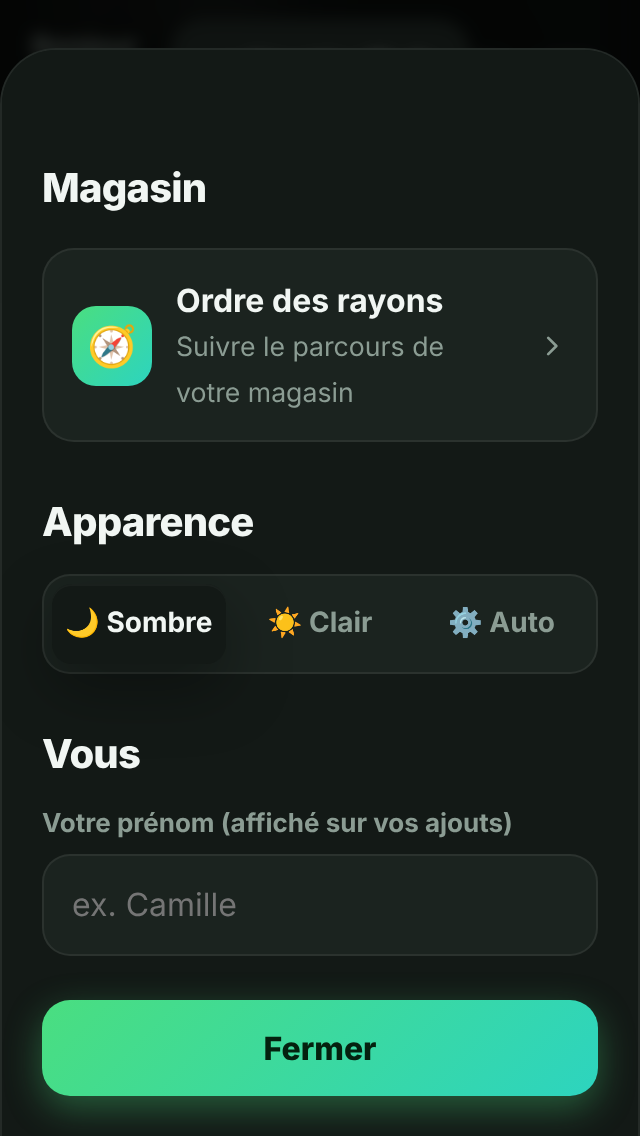
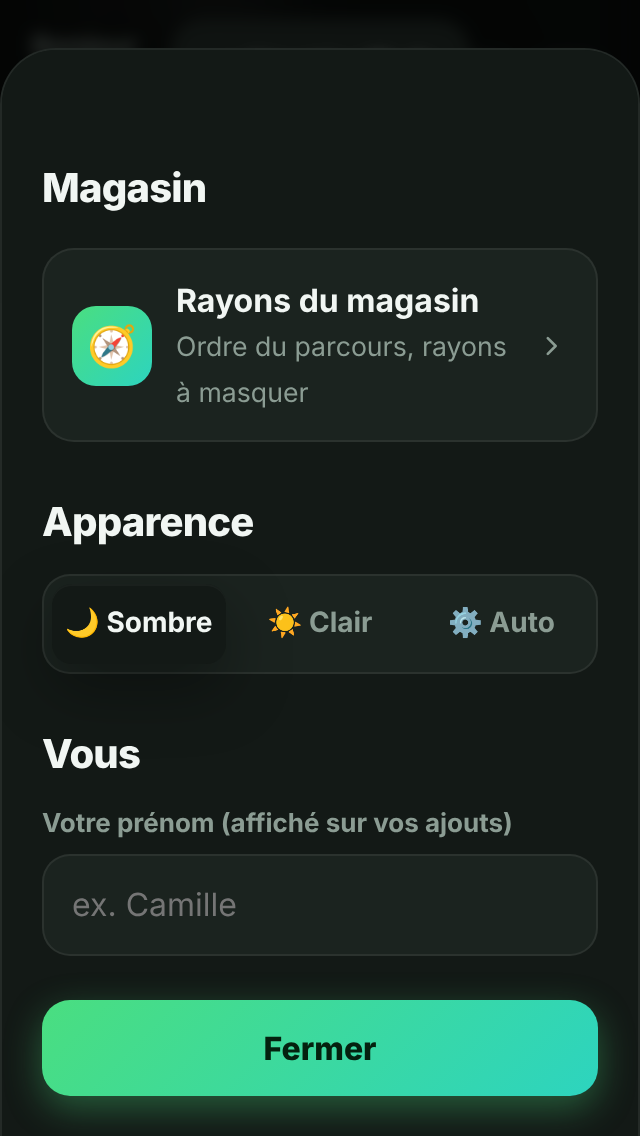
Annuler la dernière action (2.8)
- Pile des 20 dernières actions faites sur ce téléphone : cocher ou
  décocher (dates d'achat restaurées), ajouter (seul ou en groupe, compteur
  d'historique corrigé), supprimer, « Tout retirer », modifier, retirer
  depuis le catalogue
- Bouton « ↶ Annuler · … » au-dessus de la saisie après chaque action,
  annulations enchaînables ; bouton ↶ sur la carte de progression
- Les ajouts reçus de Siri ne sont pas annulables depuis ce téléphone

Claude-Session: https://claude.ai/code/session_01VrcHt51tiMJJhfcBrPFuUk

Changed region(s): [[0.2812, 0.2465, 0.7812, 0.3697]]

diff --git a/public/js/app.js b/public/js/app.js
@@ -130,6 +130,12 @@ function recordPurchase(item) {
   const kept = dates.sort((a, b) => a - b).slice(-12);
   historyMap = { ...historyMap, [key]: { ...prev, name: item.name, category: item.category, dates: kept } };
   store.recordPurchase(key, { name: item.name, category: item.category }, kept);
+  // Pour l'annulation : remet les dates d'avant.
+  const before = prev.dates || [];
+  return () => {
+    historyMap = { ...historyMap, [key]: { ...(historyMap[key] || prev), dates: before } };
+    store.recordPurchase(key, { name: item.name, category: item.category }, before);
+  };
 }
 
 // Écart habituel entre deux achats : médiane des écarts (insensible à un oubli ponctuel).
@@ -232,7 +238,7 @@ function setupForgot() {
     setTimeout(() => { renderForgotSheet(); renderForgotButton(); }, 350);
   });
   $('#forgot-all').addEventListener('click', () => {
-    forgottenItems().forEach(addEntry);
+    pushGroupUndo(forgottenItems().map((f) => addItem({ name: f.entry.name, qty: '', category: f.entry.category }, { silent: true, undo: false })));
     $('#forgot-list').querySelectorAll('li').forEach((li) => li.classList.add('added'));
     setTimeout(() => { sheet.close(); }, 400);
   });
@@ -298,27 +304,105 @@ function renderChips() {
   });
 }
 
+/* ---------------------------------------------------------------- Annuler */
+
+// Pile des dernières actions faites sur ce téléphone (20 maximum), chacune avec
+// sa fonction d'annulation. Le bouton « ↶ Annuler » apparaît après chaque action.
+const undoStack = [];
+let undoPillTimer;
+const itemExists = (id) => items.some((i) => i.id === id);
+
+function pushUndo(label, revert) {
+  if (typeof revert !== 'function') return;
+  undoStack.push({ label, revert });
+  if (undoStack.length > 20) undoStack.shift();
+  showUndoPill();
+}
+
+function showUndoPill() {
+  const pill = $('#undo-pill');
+  renderUndoButton();
+  if (!pill) return;
+  const last = undoStack[undoStack.length - 1];
+  if (!last) { pill.hidden = true; return; }
+  $('#undo-label').textContent = last.label;
+  pill.hidden = false;
+  pill.classList.remove('pop');
+  void pill.offsetWidth;
+  pill.classList.add('pop');
+  clearTimeout(undoPillTimer);
+  undoPillTimer = setTimeout(() => { pill.hidden = true; }, 6000);
+}
+
+function undoLast() {
+  const action = undoStack.pop();
+  if (!action) return;
+  try { action.revert(); } catch (err) { console.error(err); }
+  navigator.vibrate?.(15);
+  if (undoStack.length) {
+    showUndoPill(); // permet d'enchaîner les annulations
+  } else {
+    $('#undo-pill').hidden = true;
+    renderUndoButton();
+  }
+  toast(`↶ Annulé : ${action.label}`, '', null, 2500);
+}
+
+function renderUndoButton() {
+  const btn = $('#btn-undo-hero');
+  if (btn) btn.hidden = undoStack.length === 0;
+}
+
+function setupUndo() {
+  $('#undo-btn')?.addEventListener('click', undoLast);
+  $('#btn-undo-hero')?.addEventListener('click', undoLast);
+  renderUndoButton();
+}
+
+// Ajout annulé : on retire aussi l'utilisation comptée dans l'historique commun.
+function unremember(item) {
+  const key = normalize(item.name);
+  const prev = historyMap[key];
+  if (!prev) return;
+  historyMap = { ...historyMap, [key]: { ...prev, count: Math.max(0, (prev.count || 1) - 1) } };
+  store.recordHistory(key, { name: prev.name, category: prev.category }, -1);
+}
+
 /* ---------------------------------------------------------------- Actions */
 
 // Ajoute un article. `id` permet un identifiant déterministe (phrases Siri traitées
 // par deux téléphones en même temps : pas de doublon). `silent` évite les messages.
-function addItem({ name, qty, category, id, addedBy }, { silent = false } = {}) {
+// `undo: false` : l'appelant regroupe lui-même l'annulation (ajout de plusieurs articles).
+function addItem({ name, qty, category, id, addedBy }, { silent = false, undo = true } = {}) {
   name = capitalize(name.trim());
   if (!name) return;
+  const done = (result) => {
+    if (undo && result.revert) pushUndo(`« ${name} » ajouté`, result.revert);
+    return result;
+  };
   // Si l'article est déjà dans la liste (non coché), on met à jour au lieu de dupliquer.
   const existing = items.find((i) => !i.checked && normalize(i.name) === normalize(name));
   if (existing) {
-    if (qty && qty !== existing.qty) store.update(existing.id, { qty, updatedAt: Date.now() });
+    let revert = null;
+    if (qty && qty !== existing.qty) {
+      const prevQty = existing.qty || '';
+      store.update(existing.id, { qty, updatedAt: Date.now() });
+      revert = () => itemExists(existing.id) && store.update(existing.id, { qty: prevQty, updatedAt: Date.now() });
+    }
     if (!silent) toast(`« ${name} » est déjà dans la liste`);
     highlight.add(existing.id);
-    return { name, status: 'exists' };
+    return done({ name, status: 'exists', revert });
   }
   const checkedTwin = items.find((i) => i.checked && normalize(i.name) === normalize(name));
   if (checkedTwin) {
+    const before = { checked: true, qty: checkedTwin.qty || '', checkedBy: checkedTwin.checkedBy || '' };
     store.update(checkedTwin.id, { checked: false, qty: qty || checkedTwin.qty, updatedAt: Date.now() });
     remember(checkedTwin);
     highlight.add(checkedTwin.id);
-    return { name, status: 'added' };
+    return done({ name, status: 'added', revert: () => {
+      unremember(checkedTwin);
+      if (itemExists(checkedTwin.id)) store.update(checkedTwin.id, { ...before, updatedAt: Date.now() });
+    } });
   }
   const knownCategory = history_()[normalize(name)]?.category;
   const item = {
@@ -335,12 +419,24 @@ function addItem({ name, qty, category, id, addedBy }, { silent = false } = {}) 
   highlight.add(item.id);
   store.add(item);
   remember(item);
-  return { name, status: 'added' };
+  return done({ name, status: 'added', revert: () => {
+    unremember(item);
+    if (itemExists(item.id)) store.remove(item.id);
+  } });
+}
+
+// Une seule annulation pour un ajout groupé.
+function pushGroupUndo(results, verb = 'ajoutés') {
+  const reverts = results.filter((r) => r?.revert);
+  if (!reverts.length) return;
+  const label = reverts.length === 1 ? `« ${reverts[0].name} » ${verb.replace(/s$/, '')}` : `${reverts.length} articles ${verb}`;
+  pushUndo(label, () => reverts.slice().reverse().forEach((r) => r.revert()));
 }
 
 // Ajoute plusieurs articles et confirme toujours ce qui s'est passé.
 function addEntries(entries, prefix = '✓') {
-  const results = entries.map((e) => addItem(e, { silent: true })).filter(Boolean);
+  const results = entries.map((e) => addItem(e, { silent: true, undo: false })).filter(Boolean);
+  pushGroupUndo(results);
   const added = results.filter((r) => r.status === 'added').map((r) => r.name);
   const already = results.filter((r) => r.status === 'exists').map((r) => r.name);
   const parts = [];
@@ -353,7 +449,12 @@ function addEntries(entries, prefix = '✓') {
 }
 
 function toggle(item) {
-  if (!item.checked) recordPurchase(item);
+  const restoreDates = !item.checked ? recordPurchase(item) : null;
+  const before = { checked: item.checked, checkedBy: item.checkedBy || '' };
+  pushUndo(item.checked ? `« ${item.name} » remis dans la liste` : `« ${item.name} » mis dans le caddie`, () => {
+    restoreDates?.();
+    if (itemExists(item.id)) store.update(item.id, { ...before, updatedAt: Date.now() });
+  });
   store.update(item.id, {
     checked: !item.checked,
     checkedBy: !item.checked ? prefs.get('me', '') : '',
@@ -364,14 +465,14 @@ function toggle(item) {
 
 function removeItem(item) {
   store.remove(item.id);
-  toast(`« ${item.name} » supprimé`, 'Annuler', () => store.add(item));
+  pushUndo(`« ${item.name} » supprimé`, () => store.add(item));
 }
 
 function clearChecked() {
   const done = items.filter((i) => i.checked);
   if (!done.length) return;
   store.removeMany(done.map((i) => i.id));
-  toast(`${done.length} article${done.length > 1 ? 's' : ''} retiré${done.length > 1 ? 's' : ''}`, 'Annuler',
+  pushUndo(`${done.length} article${done.length > 1 ? 's' : ''} retiré${done.length > 1 ? 's' : ''} du caddie`,
     () => done.forEach((i) => store.add(i)));
 }
 
@@ -681,7 +782,10 @@ function setupSheets() {
       category: f.category.value,
       updatedAt: Date.now(),
     };
-    store.update(editing.id, patch);
+    const target = editing;
+    const before = { name: target.name, qty: target.qty || '', note: target.note || '', category: target.category };
+    store.update(target.id, patch);
+    pushUndo(`« ${target.name} » modifié`, () => itemExists(target.id) && store.update(target.id, { ...before, updatedAt: Date.now() }));
     // Mémorise le rayon choisi pour les prochaines fois.
     remember({ ...editing, ...patch }, { count: false });
     editing = null;
@@ -742,7 +846,7 @@ function processInbox() {
     if (handledInbox.has(msg.id)) continue;
     handledInbox.add(msg.id);
     parseMany(msg.text, { voice: true }).forEach((e, i) => {
-      addItem({ ...e, id: `${msg.id}-${i}`, addedBy: 'Siri' }, { silent: true });
+      addItem({ ...e, id: `${msg.id}-${i}`, addedBy: 'Siri' }, { silent: true, undo: false });
       added.push(e.name);
     });
     store.removeInbox(msg.id);
@@ -972,7 +1076,7 @@ function openVoiceLab() {
       voiceLog(`fin (${result ? 'texte reçu' : 'rien reçu'})`);
       if (result) {
         const entries = parseMany(result, { voice: true });
-        entries.forEach((entry) => addItem(entry, { silent: true }));
+        pushGroupUndo(entries.map((entry) => addItem(entry, { silent: true, undo: false })));
         renderChips();
         status.textContent = `✅ Ajouté : ${entries.map((x) => x.name).join(', ')}`;
         return;
@@ -1218,6 +1322,7 @@ function setupCatalog() {
     navigator.vibrate?.(10);
     if (existing) {
       store.remove(existing.id);           // toucher à nouveau : retirer de la liste
+      pushUndo(`« ${existing.name} » retiré`, () => store.add(existing));
       tile.classList.remove('in');
     } else {
       addItem({ name, qty: '', category: cat }, { silent: true });
@@ -1405,6 +1510,7 @@ async function main() {
   setupOrder();
   setupSyncSheet();
   setupForgot();
+  setupUndo();
 
   render();
   renderChips();

diff --git a/public/styles.css b/public/styles.css
@@ -650,3 +650,30 @@ code { font-family: ui-monospace, SFMono-Regular, Menlo, monospace; font-size: .
 .order-label small { display: block; font-size: 11px; font-weight: 700; color: var(--muted); }
 .order-eye[aria-pressed="true"] { color: var(--accent); border-color: color-mix(in srgb, var(--accent) 40%, var(--line)); }
 .order-spacer { visibility: hidden; }
+
+/* ---------- Annuler ---------- */
+.hero-undo {
+  flex: none; margin-left: auto; align-self: flex-start;
+  width: 40px; height: 40px; border-radius: 12px; display: grid; place-items: center;
+  border: 1px solid var(--line); background: var(--surface-2); color: var(--text);
+}
+.hero-undo:active { transform: scale(.92); }
+.undo-pill {
+  position: fixed; left: 50%; bottom: calc(92px + var(--safe-b)); z-index: 12;
+  transform: translateX(-50%); max-width: calc(100% - 32px);
+}
+.composer.focused ~ .undo-pill, .undo-pill:has(+ .composer.focused) { bottom: calc(146px + var(--safe-b)); }
+.undo-pill.pop { animation: undo-in .25s ease-out; }
+@keyframes undo-in { from { opacity: 0; transform: translate(-50%, 10px); } }
+.undo-pill button {
+  display: flex; align-items: center; gap: 8px; max-width: 100%;
+  padding: 10px 16px 10px 12px; border-radius: 999px;
+  border: 1px solid color-mix(in srgb, var(--accent) 35%, var(--line));
+  background: var(--surface-3); color: var(--text);
+  box-shadow: 0 10px 30px rgba(0, 0, 0, .35);
+  font-size: 14px; white-space: nowrap;
+}
+.undo-pill svg { flex: none; width: 18px; height: 18px; color: var(--accent); }
+.undo-pill strong { color: var(--accent); }
+.undo-pill span { color: var(--muted); overflow: hidden; text-overflow: ellipsis; }
+.undo-pill span::before { content: "· "; }

diff --git a/public/index.html b/public/index.html
@@ -49,6 +49,9 @@
         <p class="hero-big" id="hero-big"></p>
         <p class="progress-label" id="progress-label"></p>
       </div>
+      <button type="button" class="hero-undo" id="btn-undo-hero" aria-label="Annuler la dernière action" hidden>
+        <svg viewBox="0 0 24 24" aria-hidden="true"><path d="M9 14L4 9l5-5"/><path d="M4 9h10.5a5.5 5.5 0 0 1 0 11H11"/></svg>
+      </button>
     </section>
 
     <button type="button" class="forgot-btn" id="btn-forgot" hidden>
@@ -64,6 +67,13 @@
       <h2>La liste est vide</h2>
       <p>Ajoutez des articles ci-dessous, au clavier ou au micro 🎤.<br>Astuce : « 2 lait, farine 500g et des œufs ».</p>
     </section>
+  </div>
+
+  <div class="undo-pill" id="undo-pill" hidden>
+    <button type="button" id="undo-btn">
+      <svg viewBox="0 0 24 24" aria-hidden="true"><path d="M9 14L4 9l5-5"/><path d="M4 9h10.5a5.5 5.5 0 0 1 0 11H11"/></svg>
+      <strong>Annuler</strong><span id="undo-label"></span>
+    </button>
   </div>
 
   <form class="composer" id="composer" autocomplete="off">

diff --git a/public/sw.js b/public/sw.js
@@ -1,7 +1,7 @@
 // Service worker : met l'application en cache pour un fonctionnement hors ligne.
 // À chaque mise en ligne : incrémenter VERSION, avec la même valeur que APP_VERSION
 // dans js/version.js (numéro affiché dans l'application).
-const VERSION = '2.7';
+const VERSION = '2.8';
 const CACHE = `courses-${VERSION}`;
 const APP_SHELL = [
   './',

diff --git a/public/js/version.js b/public/js/version.js
@@ -1,4 +1,4 @@
 // Numéro de version affiché dans l'application (👥 › bas de l'écran).
 // À chaque mise en ligne : incrémenter ici ET la constante VERSION de sw.js (même valeur).
-export const APP_VERSION = '2.7';
+export const APP_VERSION = '2.8';
 export const APP_DATE = '24 novembre 2026';
